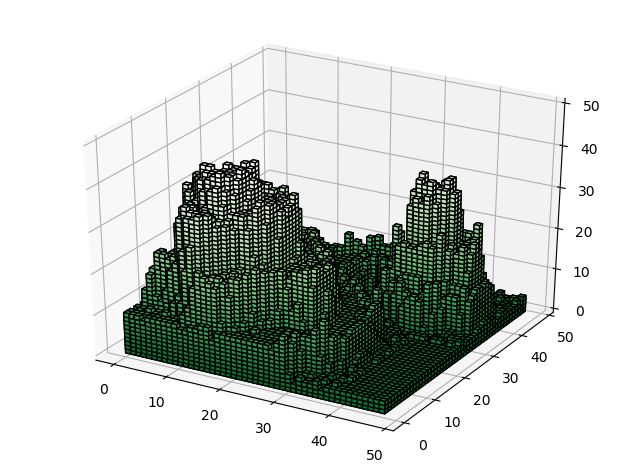
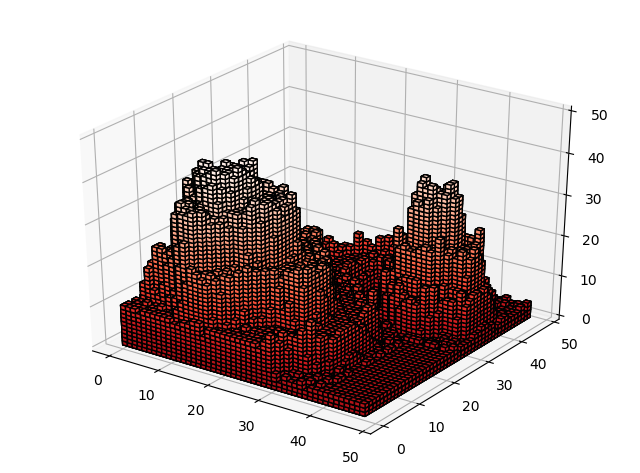
readme

diff --git a/voxelization.py b/voxelization.py
@@ -57,8 +57,12 @@ def build(N=2):
                 if lum_img[i,j] < pixcrit[a]:
                     newcube = (x == i) & (y == j) & (z == a) 
                     voxels = voxels | newcube
-                    
-    camp=mpl.cm.Greens
+    
+    'color map of voxels:
+#    camp=mpl.cm.Greens
+    camp=mpl.cm.Reds
+
+
     colors = np.empty(voxels.shape, dtype=object)
     colors[voxels] = 'pink'
     
